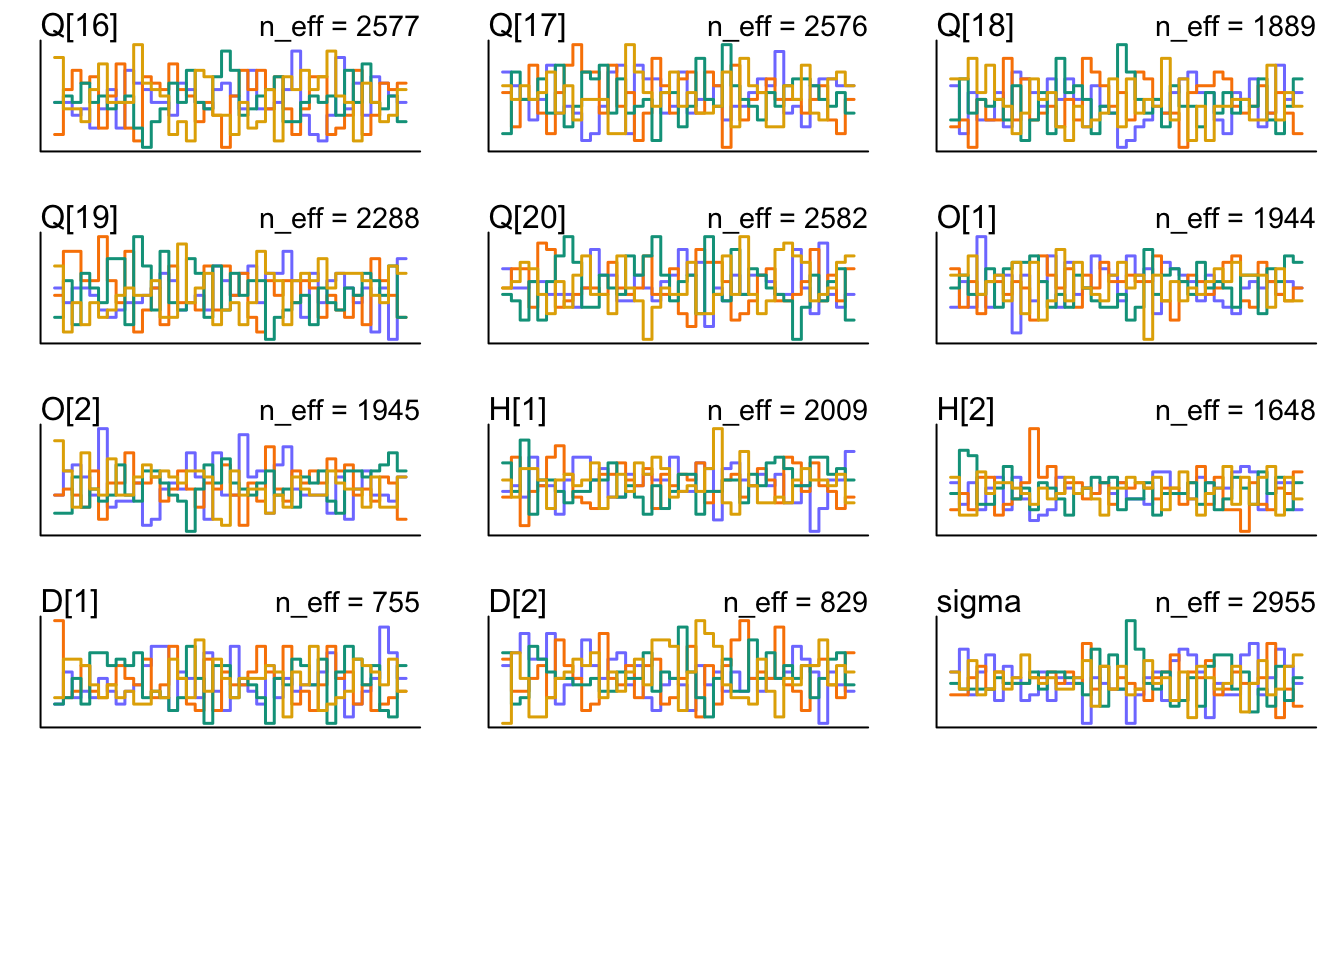
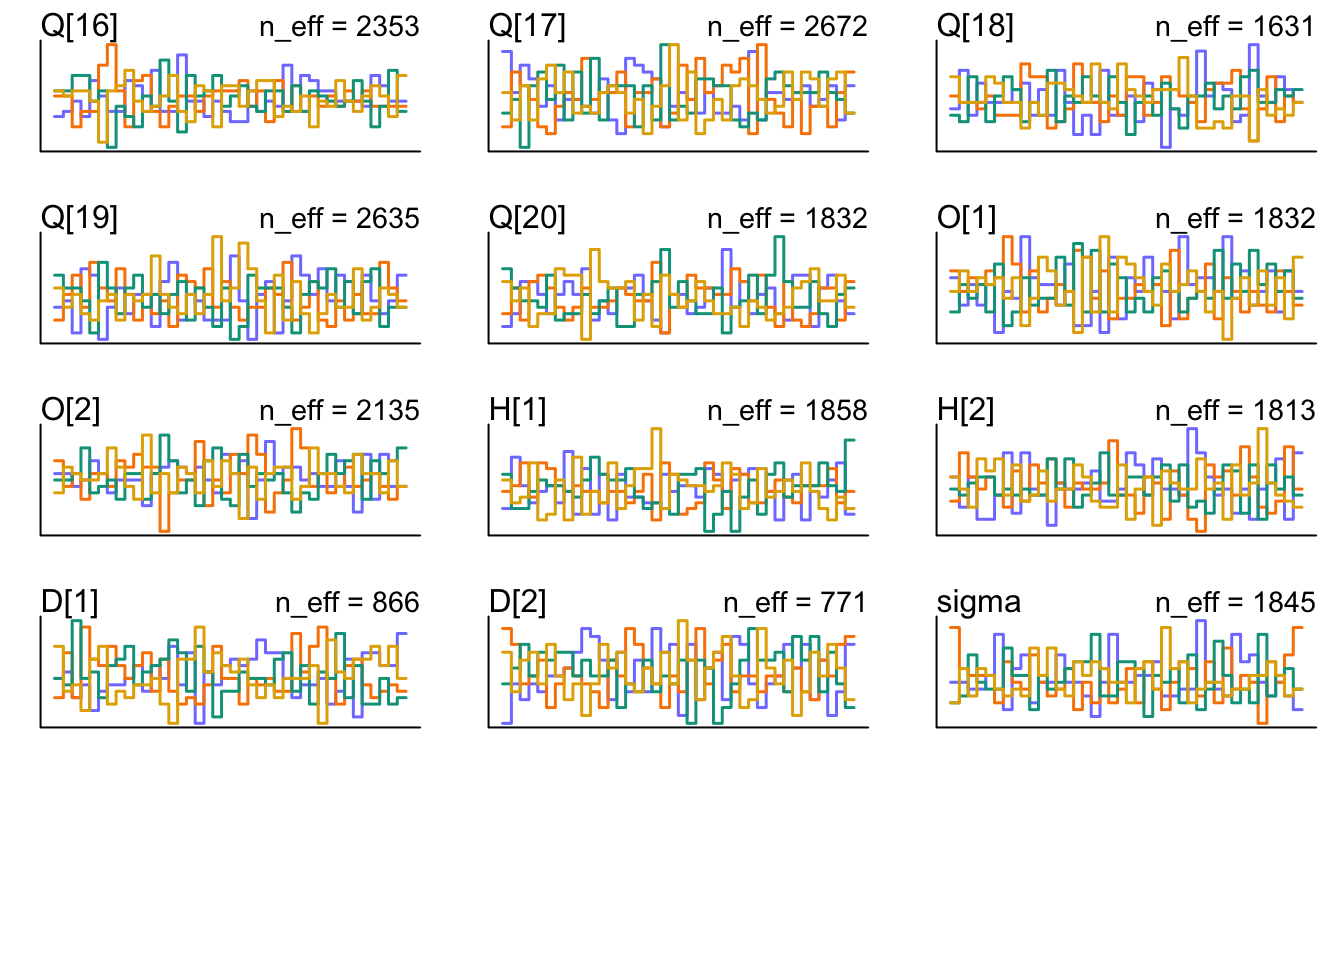
Built site for gh-pages

diff --git a/posts/statistical-rethinking/mcelreath_A08/index.html b/posts/statistical-rethinking/mcelreath_A08/index.html
@@ -207,9 +207,9 @@ window.Quarto = {
 <h1 class="title">Statistical Rethinking 2026, A08</h1>
   <div class="quarto-categories">
     <div class="quarto-category">R</div>
+    <div class="quarto-category">Bayes</div>
     <div class="quarto-category">causal inference</div>
     <div class="quarto-category">MCMC</div>
-    <div class="quarto-category">Bayes</div>
   </div>
   </div>
 
@@ -355,10 +355,10 @@ Z = Judge origin</p>
 
 Sampling durations (seconds):
   chain_id warmup sampling total
-1        1   0.18     0.08  0.25
-2        2   0.16     0.09  0.25
-3        3   0.18     0.10  0.28
-4        4   0.13     0.06  0.20
+1        1   0.15     0.11  0.26
+2        2   0.18     0.10  0.28
+3        3   0.12     0.06  0.17
+4        4   0.17     0.06  0.23
 
 Formula:
 S ~ dnorm(mu, sigma)
@@ -372,33 +372,33 @@ sigma ~ dexp(1)</code></pre>
 <div class="code-copy-outer-scaffold"><div class="sourceCode cell-code" id="cb7"><pre class="sourceCode r code-with-copy"><code class="sourceCode r"><span id="cb7-1"><a href="#cb7-1" aria-hidden="true" tabindex="-1"></a><span class="fu">precis</span>(m.wines, <span class="at">depth =</span> <span class="dv">2</span>)</span></code></pre></div><button title="Copy to Clipboard" class="code-copy-button"><i class="bi"></i></button></div>
 <div class="cell-output cell-output-stdout">
 <pre><code>             mean         sd        5.5%     94.5%      rhat  ess_bulk
-Q[1]   0.13559570 0.93888300 -1.35125256 1.6419739 1.0009629 2009.8869
-Q[2]   0.01867078 0.94678079 -1.54342693 1.5187833 1.0083003 2855.4548
-Q[3]   0.34367282 0.96537667 -1.21610325 1.8940964 1.0001422 2256.7705
-Q[4]   0.49733543 0.93885568 -1.06363094 2.0104269 1.0060939 2252.1103
-Q[5]  -0.17979534 0.92851056 -1.65905544 1.3713637 1.0055488 2904.2639
-Q[6]  -0.36224924 0.99730740 -1.91525897 1.2833955 1.0002517 2207.2524
-Q[7]   0.21237697 0.97404776 -1.31275083 1.7522713 1.0004508 2629.4221
-Q[8]   0.29917321 0.90959552 -1.19122371 1.7464888 1.0018827 2373.1528
-Q[9]   0.14555516 0.95543256 -1.38348379 1.6600579 1.0001165 2632.7559
-Q[10]  0.17920368 0.94067490 -1.35130426 1.6553667 1.0022898 2442.7814
-Q[11]  0.07066637 0.95068652 -1.49327725 1.6001192 0.9994850 2786.5986
-Q[12]  0.01625736 0.90992252 -1.46824693 1.4614231 0.9988434 2423.3988
-Q[13] -0.03728497 0.93154903 -1.48550576 1.4896953 1.0026051 2832.4312
-Q[14] -0.03974043 0.94025540 -1.56322643 1.4362593 1.0014899 2062.7566
-Q[15] -0.27265512 0.94261041 -1.73246426 1.2338671 1.0036722 2677.6838
-Q[16] -0.18521429 0.90245262 -1.67986752 1.2752935 1.0004518 2577.1809
-Q[17] -0.09864779 0.88335222 -1.48745870 1.2768953 1.0006630 2575.9553
-Q[18] -0.81530515 0.97631620 -2.38248969 0.7495954 1.0024145 1889.0655
-Q[19] -0.23185954 0.94204601 -1.74092862 1.3081589 1.0009727 2287.8694
-Q[20]  0.34860136 0.94873325 -1.11158791 1.9073004 1.0015154 2582.4386
-O[1]  -0.33743823 0.74625401 -1.52887071 0.8473413 1.0011206 1944.4718
-O[2]   0.31159646 0.80163693 -0.94419858 1.5539487 1.0019150 1945.4227
-H[1]  -0.44783861 0.79322874 -1.67554550 0.9117545 1.0005733 2008.5483
-H[2]   0.44666150 0.76369039 -0.80960472 1.6034392 1.0007738 1648.3193
-D[1]   0.11812776 0.08765786  0.01260986 0.2819525 1.0017327  754.9004
-D[2]   0.14045572 0.10579615  0.01533648 0.3394352 1.0014736  829.4246
-sigma  0.99300335 0.05581457  0.90583481 1.0864611 1.0055698 2954.9623</code></pre>
+Q[1]   0.13898657 0.95091591 -1.37371099 1.6226307 1.0011342 2460.2376
+Q[2]   0.02404382 0.90457143 -1.39590944 1.4796395 1.0038372 2658.6588
+Q[3]   0.30245330 0.94186181 -1.17924418 1.7563533 1.0011300 2042.2848
+Q[4]   0.49164692 0.91733864 -1.04148070 1.8912420 1.0007380 2576.1201
+Q[5]  -0.23277490 0.91303810 -1.71547279 1.2194583 1.0056789 2435.1156
+Q[6]  -0.36041352 0.95513998 -1.82955651 1.2034704 1.0001668 2334.1285
+Q[7]   0.22087531 0.92446803 -1.21146869 1.7151020 1.0021462 3023.2336
+Q[8]   0.33872271 0.96211636 -1.24787694 1.8362625 1.0055485 2628.7546
+Q[9]   0.10720325 0.89798351 -1.31296884 1.5268290 1.0030748 3241.9919
+Q[10]  0.18718525 0.91168806 -1.27893737 1.6404832 1.0003151 3055.6738
+Q[11]  0.06362231 0.91240021 -1.39078481 1.5267090 0.9993600 3328.7920
+Q[12] -0.01551917 0.91144530 -1.45569178 1.4409729 1.0020779 2578.0100
+Q[13] -0.05038415 0.93498467 -1.56141618 1.4119429 1.0031313 2443.8173
+Q[14] -0.05890552 0.90232975 -1.45999880 1.3937685 1.0026310 2805.0109
+Q[15] -0.27739038 0.97189889 -1.80871537 1.3659562 1.0029518 2700.8100
+Q[16] -0.16520380 0.96320676 -1.71778350 1.3688729 0.9997498 2353.1034
+Q[17] -0.09041826 0.89706393 -1.57795747 1.3499541 1.0028688 2672.0010
+Q[18] -0.79653050 0.96416025 -2.36354981 0.7831015 1.0028187 1631.3314
+Q[19] -0.25647048 0.93819956 -1.80207074 1.2568909 0.9997797 2635.0625
+Q[20]  0.31495959 0.96086553 -1.21263423 1.8125656 0.9992842 1832.3115
+O[1]  -0.32723373 0.75514940 -1.49053377 0.9090946 1.0005727 1831.8929
+O[2]   0.31054550 0.77726830 -0.94108328 1.5649165 1.0008442 2134.5977
+H[1]  -0.46791142 0.78205098 -1.66888588 0.8189812 1.0040092 1857.6294
+H[2]   0.42980736 0.82610208 -0.89199113 1.7157534 1.0007080 1813.3030
+D[1]   0.11861852 0.08786658  0.01298841 0.2797960 1.0057014  865.9650
+D[2]   0.13804928 0.10893690  0.01203305 0.3453178 1.0039177  770.5017
+sigma  0.99198016 0.05288462  0.91096037 1.0816254 1.0054380 1844.8327</code></pre>
 </div>
 <div class="code-copy-outer-scaffold"><div class="sourceCode cell-code" id="cb9"><pre class="sourceCode r code-with-copy"><code class="sourceCode r"><span id="cb9-1"><a href="#cb9-1" aria-hidden="true" tabindex="-1"></a><span class="fu">trankplot</span>(m.wines)</span></code></pre></div><button title="Copy to Clipboard" class="code-copy-button"><i class="bi"></i></button></div>
 <div class="cell-output-display">
@@ -472,7 +472,7 @@ sigma  0.99300335 0.05581457  0.90583481 1.0864611 1.0055698 2954.9623</code></p
 </div>
 </div>
 </div>
-<p>Here we can see that 49.9% of the times we randomly sample a new judge, the French judge is more discriminating than the American judge. And 50.1% of the time, the American judge is more discriminating than the French judge. So it seems like there is no difference between American and French wine judges in terms of wine discrimination.<br>
+<p>Here we can see that 51.5% of the times we randomly sample a new judge, the French judge is more discriminating than the American judge. And 48.5% of the time, the American judge is more discriminating than the French judge. So it seems like there is no difference between American and French wine judges in terms of wine discrimination.<br>
 Let’s now look at harshness.</p>
 </section>
 <section id="total-causal-contrast-in-mean-harshness" class="level3">
@@ -523,7 +523,7 @@ Let’s now look at harshness.</p>
 </div>
 </div>
 </div>
-<p>Here we can see that 70.7% of the times we randomly sample a new judge, the French judge is more harsh in their judgement than the American judge. And 29.3% of the time, the American judge is more harsh in their judgement than the French judge.</p>
+<p>Here we can see that 70.6% of the times we randomly sample a new judge, the French judge is more harsh in their judgement than the American judge. And 29.4% of the time, the American judge is more harsh in their judgement than the French judge.</p>
 </section>
 </section>
 <section id="lineplot" class="level2">

diff --git a/posts/index.html b/posts/index.html
@@ -229,7 +229,7 @@ window.Quarto = {
 <p>I’m currently working my way through Richard McElreath’s fantastic <a href="https://github.com/rmcelreath/stat_rethinking_2026/tree/main"><em>Statistical Rethinking</em></a> course. Here you can see some of my attempts to solving the exercises.</p>
 <div id="listing-bayes" class="quarto-listing quarto-listing-container-grid">
 <div class="list grid quarto-listing-cols-3">
[2 lines of base64/hex data omitted]
 <a href="../posts/statistical-rethinking/mcelreath_B01/index.html" class="quarto-grid-link">
 <div class="quarto-grid-item card h-100 card-left">
 <div class="card-body post-contents">
@@ -260,7 +260,7 @@ Jun 2026
 </div>
 </div></a>
 </div>
-<div class="g-col-1" data-index="1" data-categories="UiUyQ2NhdXNhbCUyMGluZmVyZW5jZSUyQ01DTUMlMkNCYXllcw==" data-listing-date-sort="1772319600000" data-listing-file-modified-sort="1782664807088" data-listing-date-modified-sort="NaN" data-listing-reading-time-sort="7" data-listing-word-count-sort="1263">
+<div class="g-col-1" data-index="1" data-categories="UiUyQ0JheWVzJTJDY2F1c2FsJTIwaW5mZXJlbmNlJTJDTUNNQw==" data-listing-date-sort="1772319600000" data-listing-file-modified-sort="1782665765385" data-listing-date-modified-sort="NaN" data-listing-reading-time-sort="7" data-listing-word-count-sort="1263">
 <a href="../posts/statistical-rethinking/mcelreath_A08/index.html" class="quarto-grid-link">
 <div class="quarto-grid-item card h-100 card-left">
 <div class="card-body post-contents">
@@ -271,11 +271,11 @@ Statistical Rethinking 2026, A08
 
 <div class="listing-category" onclick="window.quartoListingCategory('Ug=='); return false;">R</div>
 
+<div class="listing-category" onclick="window.quartoListingCategory('QmF5ZXM='); return false;">Bayes</div>
+
 <div class="listing-category" onclick="window.quartoListingCategory('Y2F1c2FsJTIwaW5mZXJlbmNl'); return false;">causal inference</div>
 
 <div class="listing-category" onclick="window.quartoListingCategory('TUNNQw=='); return false;">MCMC</div>
-
-<div class="listing-category" onclick="window.quartoListingCategory('QmF5ZXM='); return false;">Bayes</div>
 
 </div>
 <div class="card-text listing-description delink">
@@ -289,7 +289,7 @@ Mar 2026
 </div>
 </div></a>
 </div>
-<div class="g-col-1" data-index="2" data-categories="UiUyQ2NhdXNhbCUyMGluZmVyZW5jZSUyQ2NvbmZvdW5kaW5nJTJDQmF5ZXM=" data-listing-date-sort="1769900400000" data-listing-file-modified-sort="1782664802924" data-listing-date-modified-sort="NaN" data-listing-reading-time-sort="7" data-listing-word-count-sort="1254">
+<div class="g-col-1" data-index="2" data-categories="UiUyQ0JheWVzJTJDY2F1c2FsJTIwaW5mZXJlbmNlJTJDY29uZm91bmRpbmc=" data-listing-date-sort="1769900400000" data-listing-file-modified-sort="1782665766526" data-listing-date-modified-sort="NaN" data-listing-reading-time-sort="7" data-listing-word-count-sort="1254">
 <a href="../posts/statistical-rethinking/mcelreath_A06/index.html" class="quarto-grid-link">
 <div class="quarto-grid-item card h-100 card-left">
 <div class="card-body post-contents">
@@ -300,11 +300,11 @@ Statistical Rethinking 2026, A06
 
 <div class="listing-category" onclick="window.quartoListingCategory('Ug=='); return false;">R</div>
 
+<div class="listing-category" onclick="window.quartoListingCategory('QmF5ZXM='); return false;">Bayes</div>
+
 <div class="listing-category" onclick="window.quartoListingCategory('Y2F1c2FsJTIwaW5mZXJlbmNl'); return false;">causal inference</div>
 
 <div class="listing-category" onclick="window.quartoListingCategory('Y29uZm91bmRpbmc='); return false;">confounding</div>
-
-<div class="listing-category" onclick="window.quartoListingCategory('QmF5ZXM='); return false;">Bayes</div>
 
 </div>
 <div class="card-text listing-description delink">
@@ -438,7 +438,7 @@ Mar 2026
     }
       var localhostRegex = new RegExp(/^(?:http|https):\/\/localhost\:?[0-9]*\//);
       var mailtoRegex = new RegExp(/^mailto:/);
-        var filterRegex = new RegExp('/' + window.location.host + '/');
+        var filterRegex = new RegExp("https:\/\/PaulinaSell\.github\.io\/");
       var isInternal = (href) => {
           return filterRegex.test(href) || localhostRegex.test(href) || mailtoRegex.test(href);
       }

diff --git a/posts/statistical-rethinking/mcelreath_A06/index.html b/posts/statistical-rethinking/mcelreath_A06/index.html
@@ -198,9 +198,9 @@ window.Quarto = {
 <h1 class="title">Statistical Rethinking 2026, A06</h1>
   <div class="quarto-categories">
     <div class="quarto-category">R</div>
+    <div class="quarto-category">Bayes</div>
     <div class="quarto-category">causal inference</div>
     <div class="quarto-category">confounding</div>
-    <div class="quarto-category">Bayes</div>
   </div>
   </div>
 
